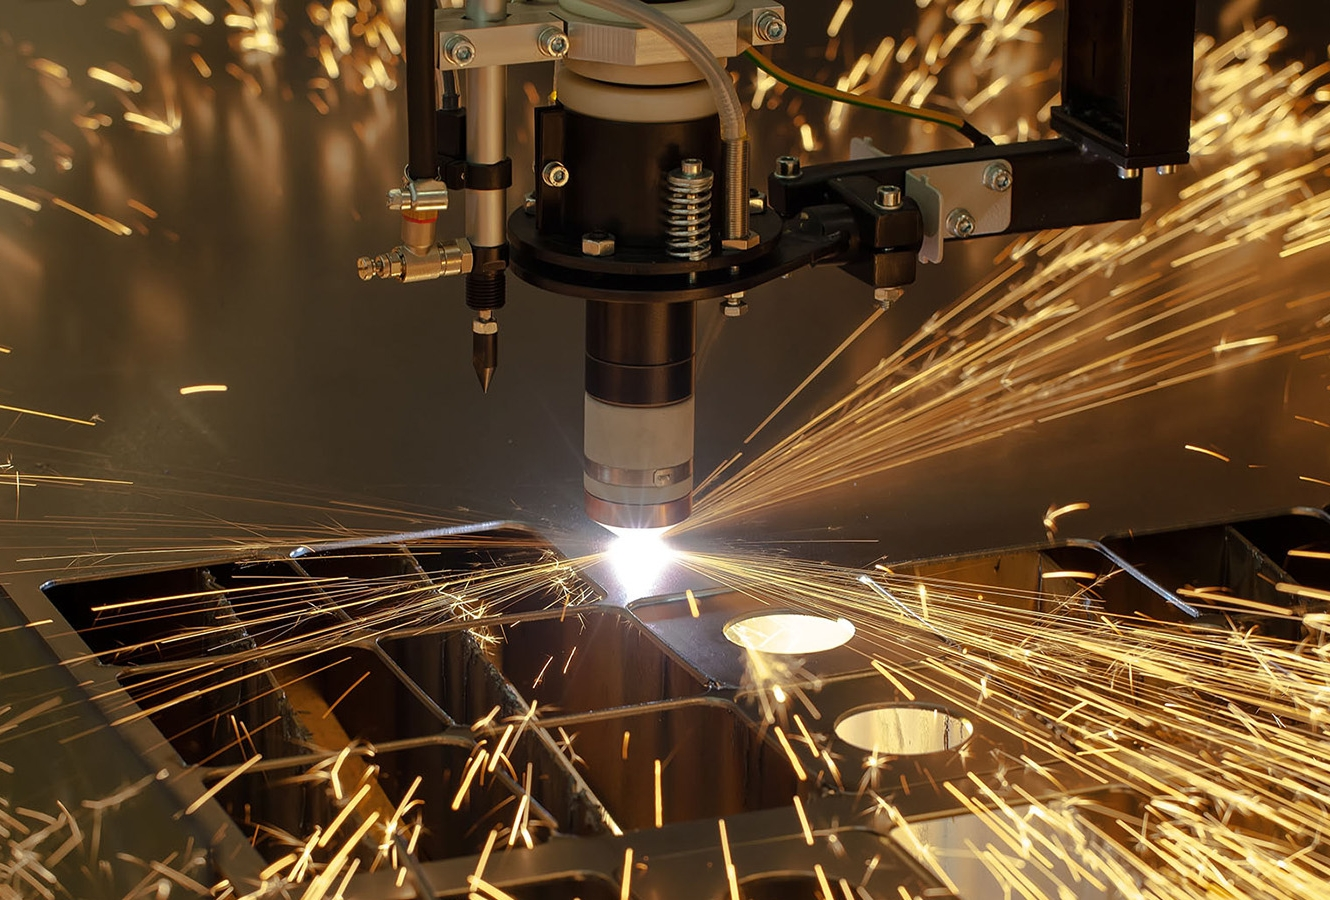
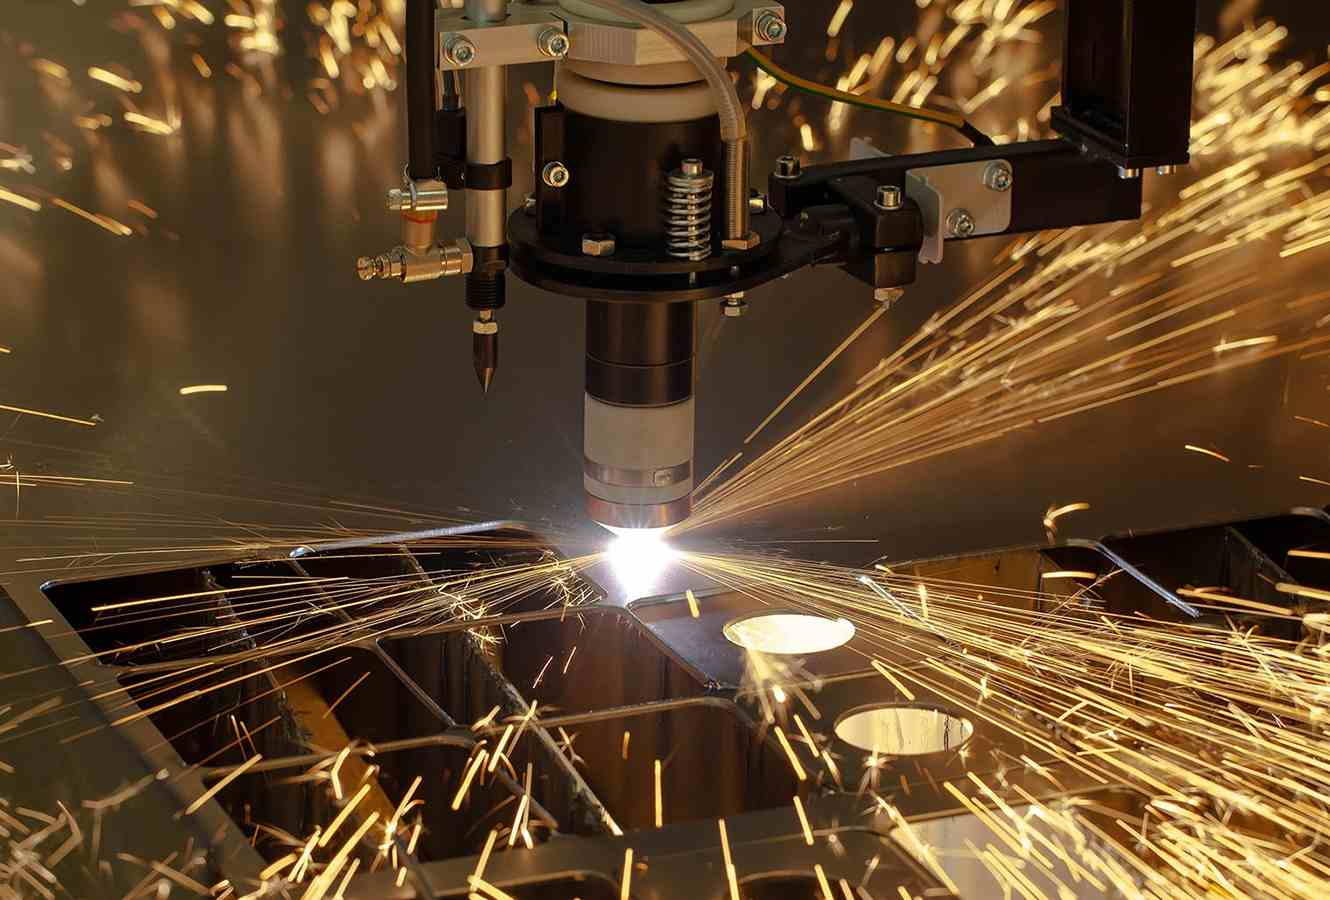
crop image and rename JPG to jpg

diff --git a/src/pages/[lang]/services/lazerna-rizka.tsx b/src/pages/[lang]/services/lazerna-rizka.tsx
@@ -31,7 +31,7 @@ const Page: React.FC<PageProps> = ({ translations }) => {
             <div className="flex flex-col-reverse items-center gap-12 md:flex-row">
               <div className="hidden shadow-[0_10px_30px_#000] max-w-full md:block md:h-full md:bg-none md:max-w-full md:w-[100%]">
                 <Image
-                  src="/assets/lazerna-rizka-01.JPG"
+                  src="/assets/lazerna-rizka-01.jpg"
                   alt="lazerna-rizka"
                   className="w-full max-w-full h-full object-cover lg:max-w-max"
                   width={100}

diff --git a/src/components/ui/back-cover/BackCover.tsx b/src/components/ui/back-cover/BackCover.tsx
@@ -1,4 +1,4 @@
-import { ReactNode } from 'react';
+/* import { ReactNode } from 'react'; */
 
 interface BackCoverProps {
   children: React.ReactNode;
